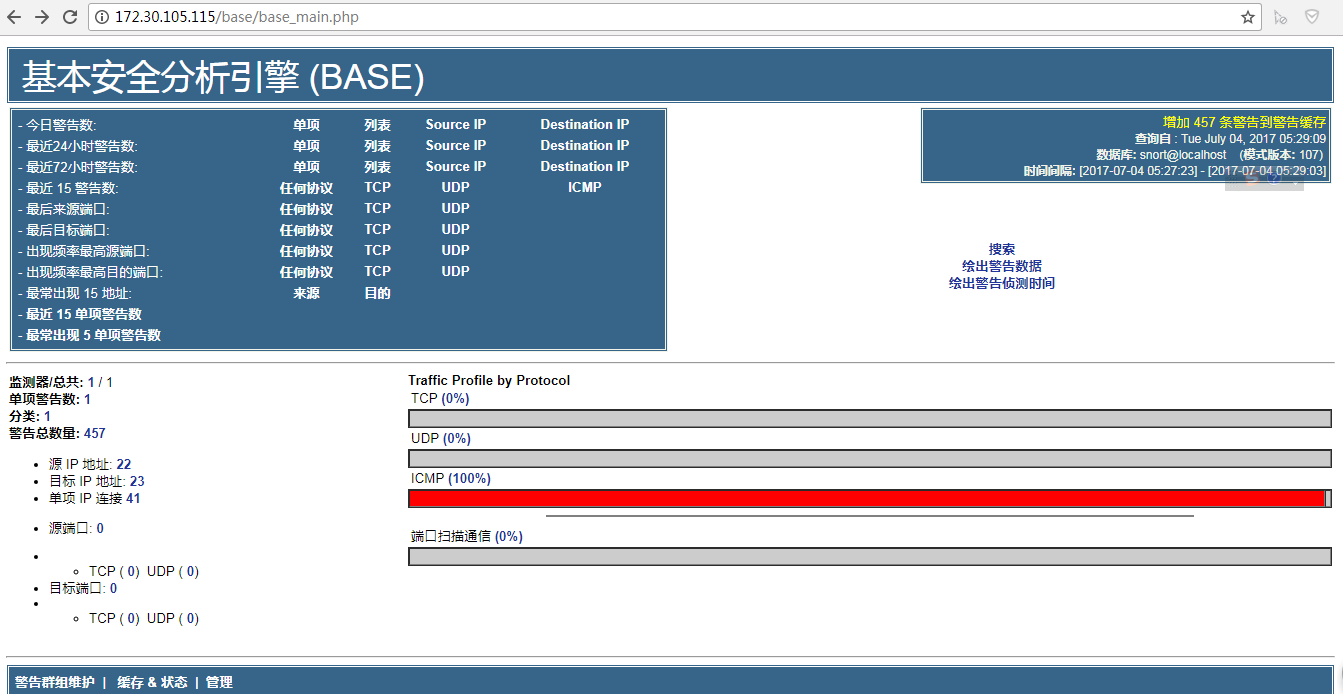
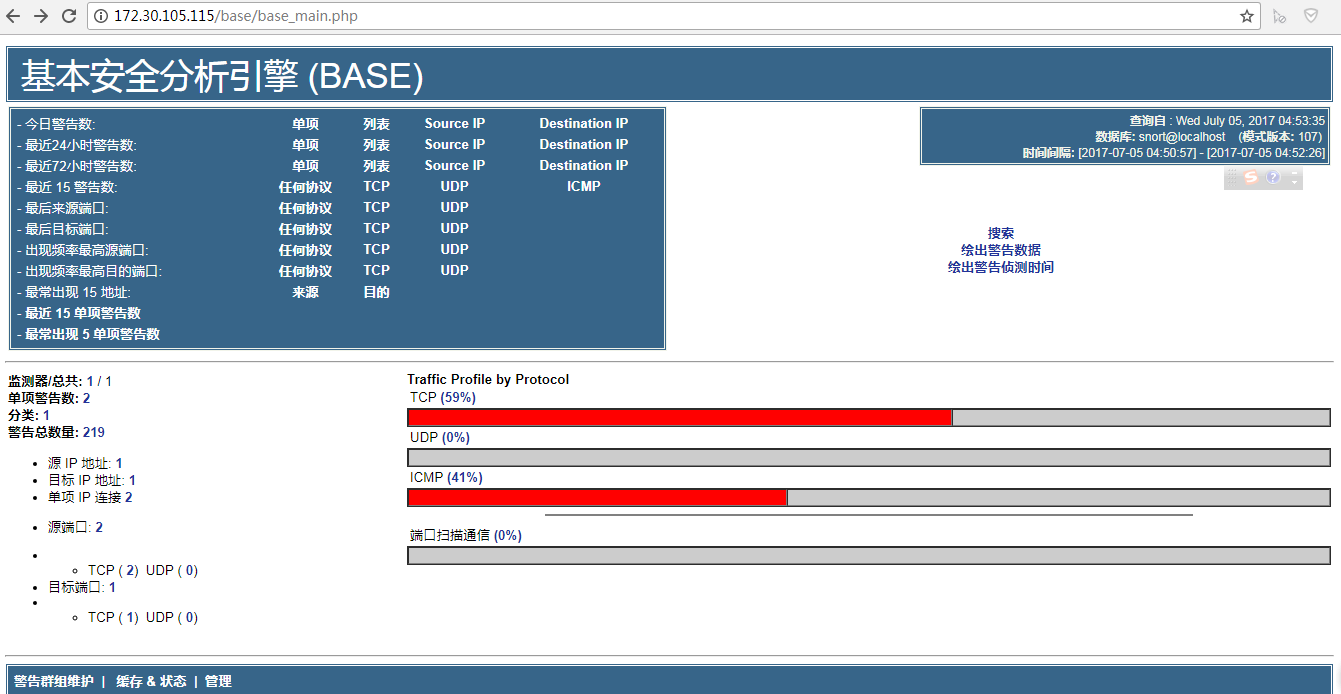
修改Snort告警信息不能写入Barnyard2

diff --git a/Server_Safety/Snort.md b/Server_Safety/Snort.md
@@ -249,10 +249,10 @@ output unified2:filename snort.log,limit 128
 
 **11、测试Snort：**
 ```py
-[root@localhost ~]# snort -T -i eht0 -u snort -g snort -c /etc/snort/snort.conf
+[root@localhost ~]# snort -i eth0 -u snort -g snort -c /etc/snort/snort.conf -l /var/log/snort/
  
 【参数解释】：
-　-T   指定启动模式：测试
+　-T   指定启动模式：测试(加上这个不会生成数据)
   -i   指定网络接口
   -c   指定配置文件
 
@@ -737,7 +737,9 @@ Snort exiting
 [root@localhost ~]# vim /etc/snort/rules/local.rules
 
 文件最后添加一条检查ping包的规则：
-alert icmp any any -> any any (msg: "IcmP Packet detected";sid:1000001;)
+alert tcp any any -> $HOME_NET 22 (msg:"Scanning Port 22";sid:1000002;rev:1;)
+alert icmp any any -> 172.30.105.115 any (msg: "IcmP Packet detected";sid:1000001;)
+
 其他规则：
 drop icmp any any -> any any (itype:0;msg:"Chan Ping";sid:1000002;)
 alert icmp any any -> $HOME_NET 81 (msg:"Scanning Port 81";sid:1000001;rev:1;)
@@ -836,14 +838,19 @@ config interface:eth0
 #config waldo_file: /tmp/waldo 默认的
 config waldo_file:/var/log/snort/barnyard2.waldo
 
+#第170行：
+input unified2
+
 文件最后一行：
-output database: log, mysql, user=snort password=snort dbname=snort host=localhost
+output database:log,mysql,user=snort password=snort dbname=snort host=localhost
 
 ```
 
 ###### 14.2 测试barnyard2
 ```py
-[root@localhost ~]# barnyard2 -c /etc/snort/barnyard2.conf -d /var/log/snort -f snort.log -w /var/log/snort/barnyard2.waldo
+[root@localhost ~]# barnyard2 -c /etc/snort/barnyard2.conf -f /var/log/snort/snort.log -w /var/log/snort/barnyard2.waldo -u snort -g snort -d /var/log/snort/ -v
+
+
 【参数解释】：
 　　-c      指定配置文件
 　　-d      指定log目录
@@ -954,6 +961,15 @@ Enter password:
 +----------+
 |     3546 |
 +----------+
+
+mysql> select * from sensor;
++-----+----------------+-----------+--------+--------+----------+----------+
+| sid | hostname       | interface | filter | detail | encoding | last_cid |
++-----+----------------+-----------+--------+--------+----------+----------+
+|   1 | localhost:eth0 | eth0      | NULL   |      1 |        0 |        0 |
++-----+----------------+-----------+--------+--------+----------+----------+
+1 row in set (0.00 sec)
+
 
 ```
 
